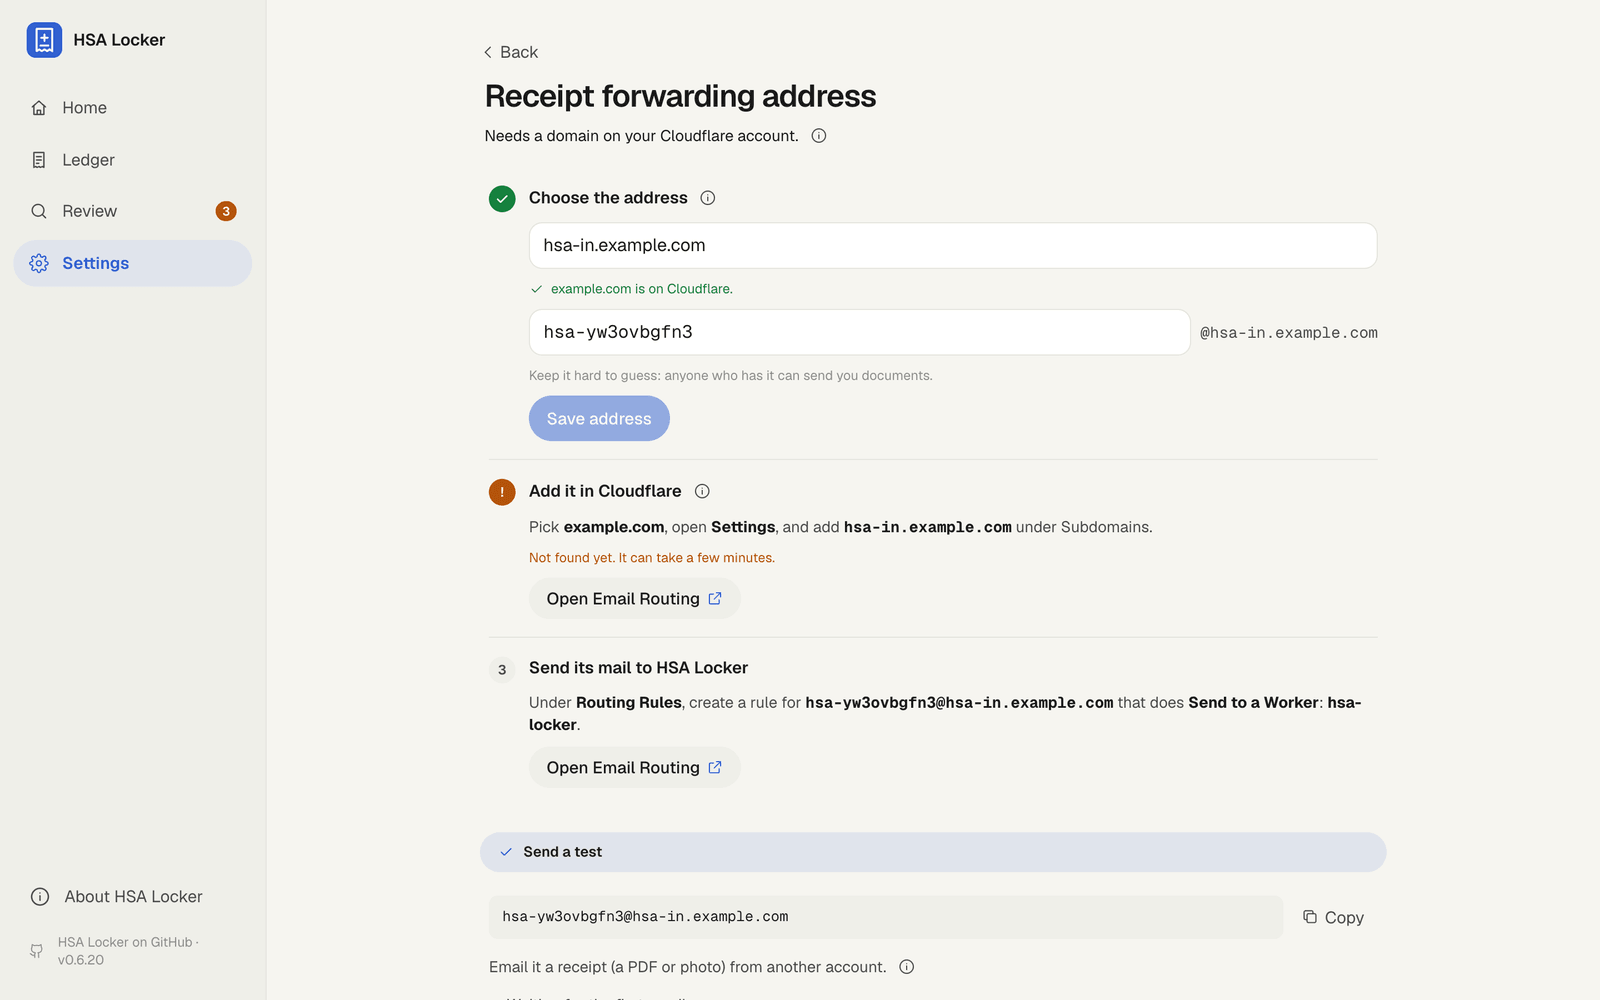
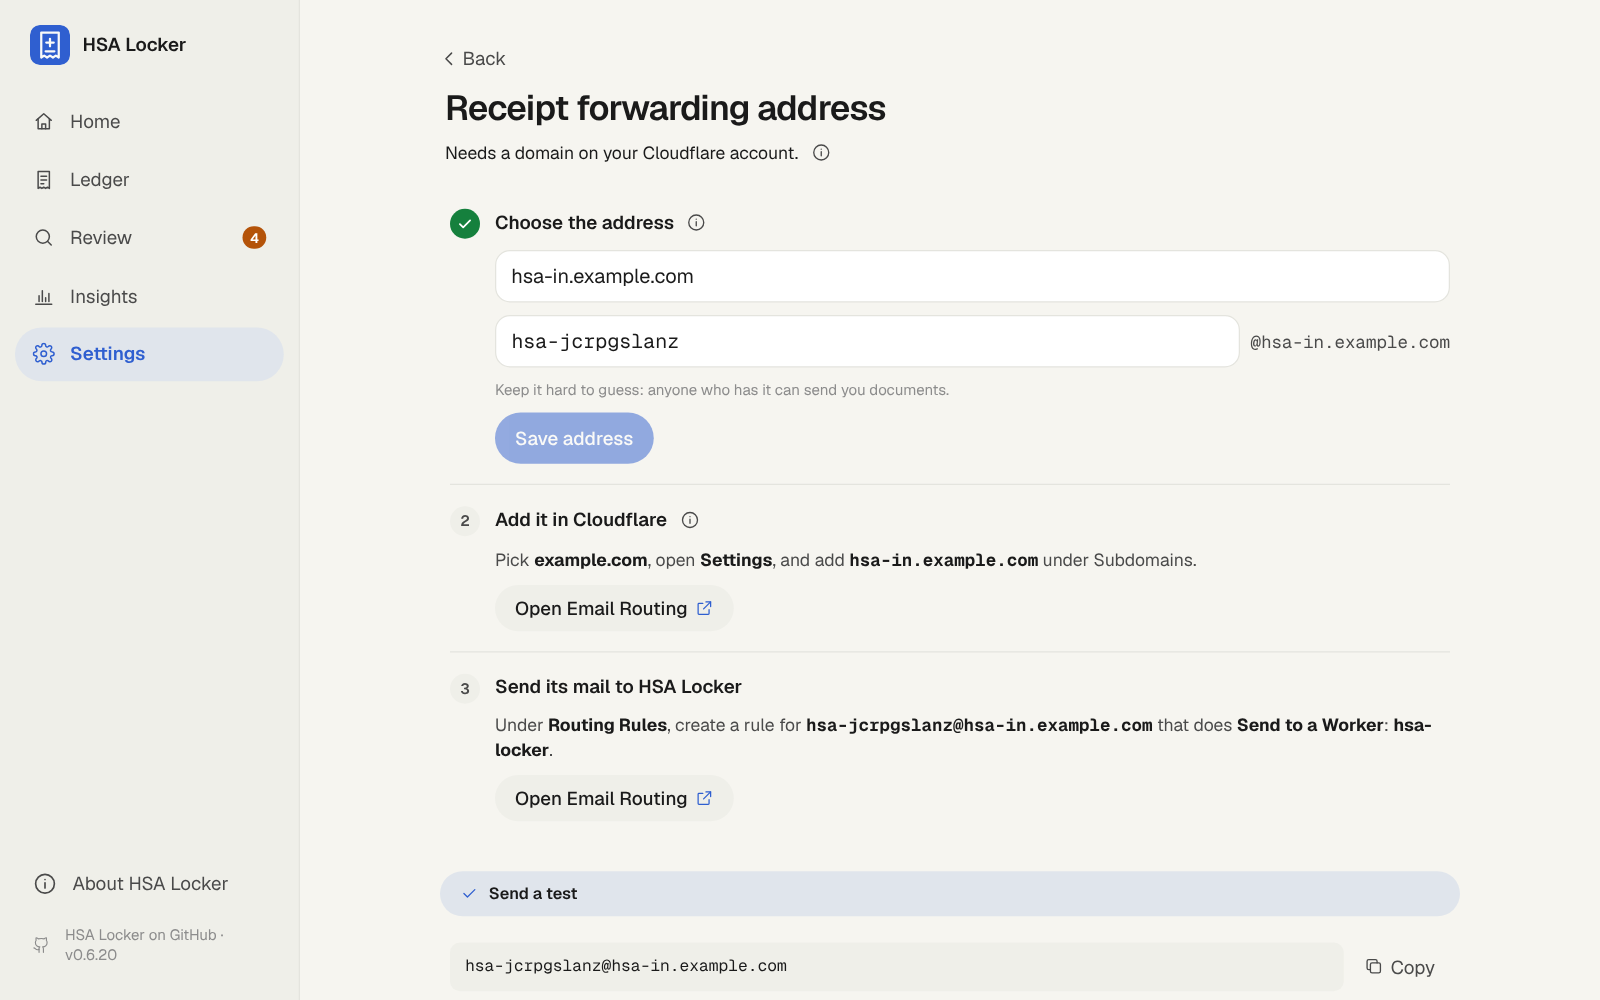
README screenshots: re-rendered with the Insights tab, plus Insights shots
Every screenshot that shows the sidebar or the phone tab bar is
re-rendered from the app (sample household + the same added documents),
so the nav includes Insights. New: insights.png and phone-insights.png,
with an Insights entry under A look around.

Claude-Session: https://claude.ai/code/session_01PCXyfztqGWwDzNt1xJScEX

diff --git a/README.md b/README.md
@@ -39,7 +39,7 @@ One deployment is one household. HSA Locker isn’t tax advice and makes no HIPA
 
 **Documents.** **Upload** takes PDFs and photos (**Take photo** on a phone). The original opens beside its entry and zooms with a pinch; one that came by email keeps the email it came in.
 
-![Add receipts with Choose files and Take photo, a photographed pharmacy receipt zoomed in, and the original forwarded email with its attachment](docs/screenshots/phone-documents.png)
+![Add receipts with Choose files and Take photo, a photographed pharmacy receipt on its Document tab, and the original forwarded email with its attachment](docs/screenshots/phone-documents.png)
 
 **Review.** Anything that needs a look waits here with the reason, like a provider name that's close to one you have.
 
@@ -48,6 +48,12 @@ One deployment is one household. HSA Locker isn’t tax advice and makes no HIPA
 **Reimbursements.** Select receipts, record the withdrawal, and see each reimbursement's receipts later.
 
 ![Three reimbursable receipts selected, the Record reimbursement sheet with the total to withdraw, and a past reimbursement with its receipts and Undo](docs/screenshots/phone-reimburse.png)
+
+**Insights.** How much you can still reimburse and how it built up, spending by month, quarter or year, how old your unclaimed receipts are, and where the money goes by category, person and provider. Drag panels to arrange them, make them half or full width, or hide them.
+
+![Insights on a computer: Reimbursable, Reimbursed, Documented, In review, Not claimable and the oldest unreimbursed receipt, above the reimbursable-over-time chart](docs/screenshots/insights.png)
+
+![Insights on a phone: the at-a-glance tiles, then reimbursable over time and spending by month](docs/screenshots/phone-insights.png)
 
 **Providers and categories.** Both fill in from your receipts. **Might be the same** asks whether a near-miss name is a provider you already have.
 
